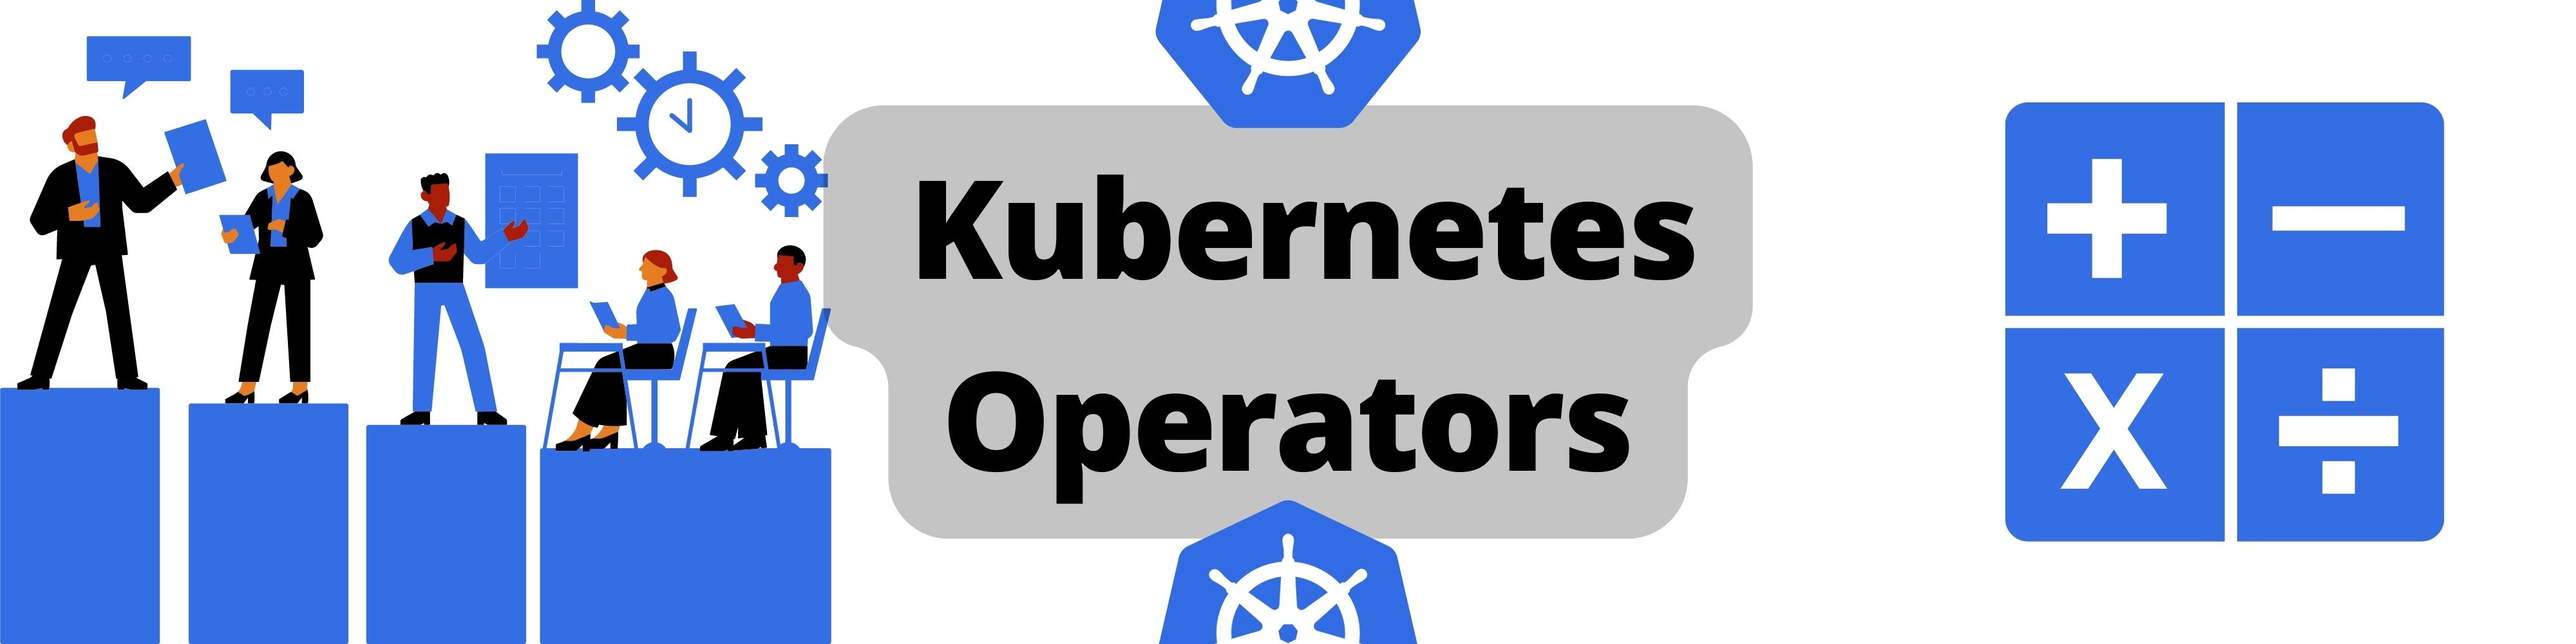
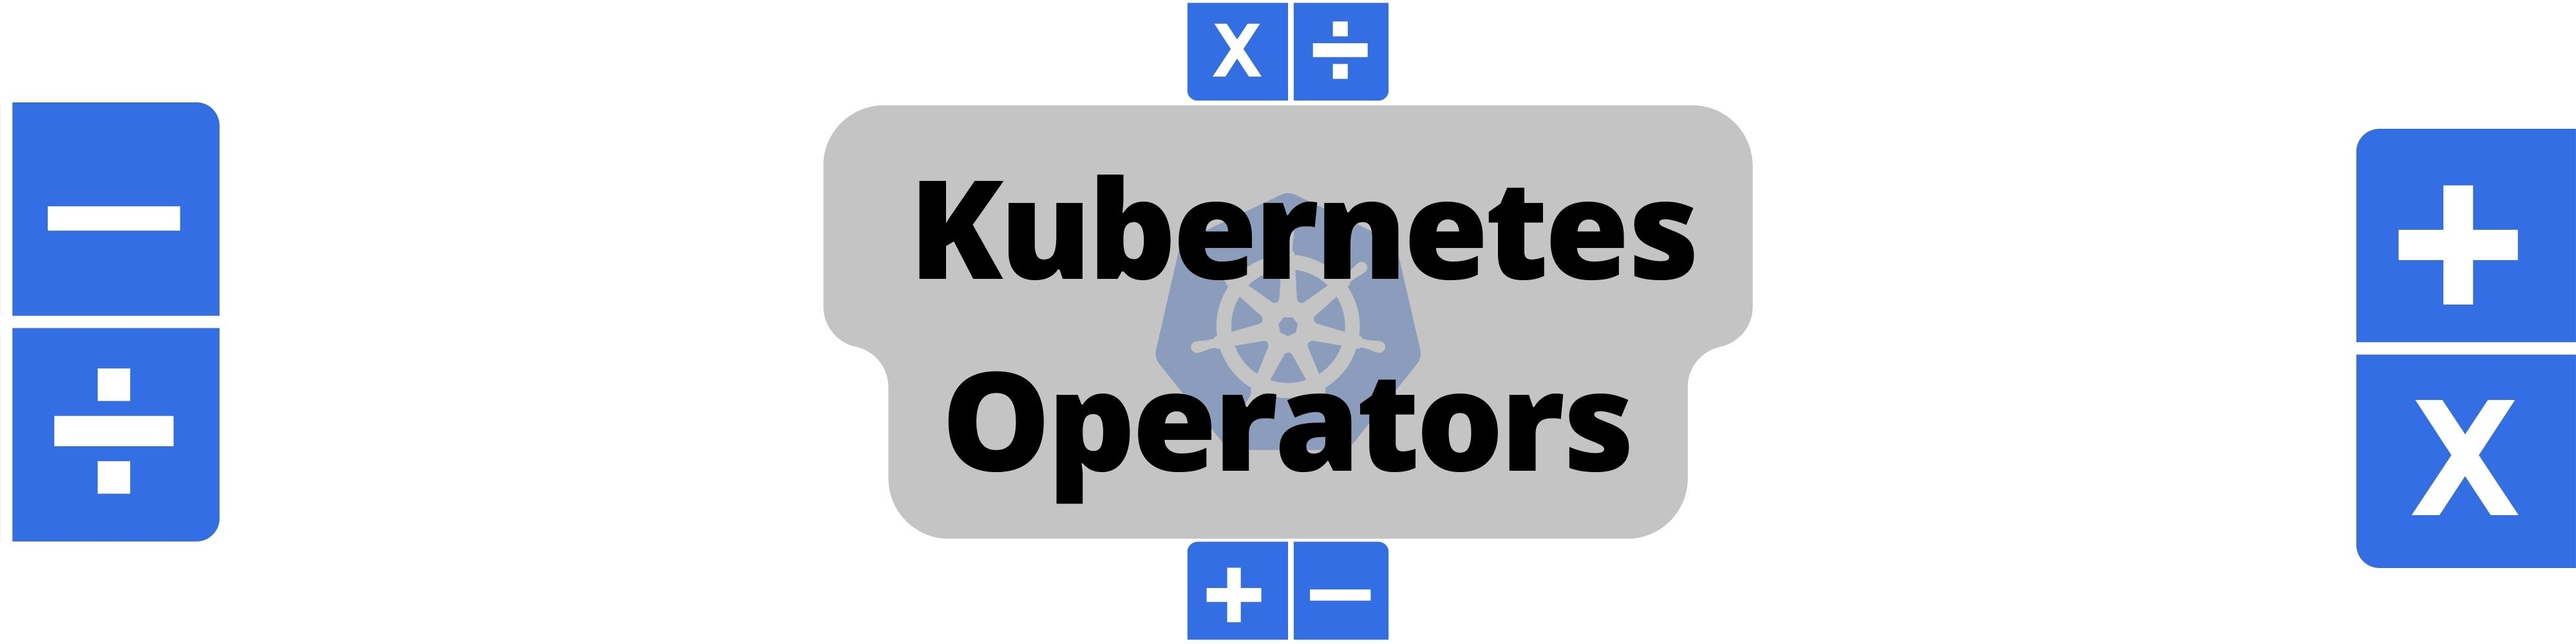
Updated images, code blocks & header

diff --git a/blog/_posts/2023-03-13-kubernetes-operators.md b/blog/_posts/2023-03-13-kubernetes-operators.md
@@ -42,7 +42,7 @@ Stateful applications like databases can be challenging to manage and scale sinc
 
 This hand holding includes additional steps that need to be taken such as configuring persistent storage, data migration, and setting up appropriate [ReplicaSsets](https://earthly.dev/blog/use-replicasets-in-k8s/). During the running phase, managing the state of the application, scaling and performing updates, and ensuring data consistency across replicas can be complex tasks. Finally, when destroying stateful applications, special care must be taken to ensure that data is properly backed up and migrated before the application is terminated. Kubernetes does not automatically handle all these tasks for stateful applications. Consider the example of creating three replicas of the MongoDB database:
 
-![MongDB Pod and Three replicas]({{site.images}}{{page.slug}}/a/kxaLtW6)
+![MongDB Pod and Three replicas]({{site.images}}{{page.slug}}/kxaLtW6.jpeg)\
 
 Each replica has its own state and identity, making it difficult to keep them in sync. When performing updates or destroying the database, the order in which these actions are performed is critical to maintaining data consistency. Furthermore, constant synchronization between replicas must be maintained. This is just one example, but the management processes for various databases such as MySQL, Postgres, Cassandra, and Redis will also differ. This makes it difficult to have a single solution that can automate the entire process for all systems and applications.
 
@@ -84,7 +84,7 @@ In summary, *Kubernetes operators provide a powerful and efficient way to manage
 
 ### Understanding the Kubernetes Operator Architecture
 
-![Kubernetes Operator Architecture]({{site.images}}{{page.slug}}/a/MQOVoON)
+![Kubernetes Operator Architecture]({{site.images}}{{page.slug}}/MQOVoON.jpeg)\
 
 A Kubernetes operator at its core has the same control loop mechanism as Kubernetes that monitors changes to the application state. They typically consist of the following components:
 
@@ -126,10 +126,11 @@ Local installation of [Git]
 
 As a first step, you must install the [MongoDB](/blog/mongodb-docker) operator's Custom Resource Definition (CRD). This is required because the CRD will be used to define the custom resource that the operator will use to manage the MongoDB cluster. To do so, run the following commands:
 
-~~~
+~~~{.bash caption=">_"}
 # clone the repository containing the MongoDB operator and Crds manifest. 
 
-git clone https://github.com/segunjkf/mongodb-operator.git && cd mongodb-operator
+git clone https://github.com/segunjkf/mongodb-operator.git && \
+cd mongodb-operator
 
 # Apply the MongoDB CRD configuration 
 
@@ -140,31 +141,31 @@ kubectl apply -f mongodb-crd.yaml
 
 The next step is to create a namespace for the operator and its resources, which will create an isolated place in your Kubernetes cluster for the MongoDB operator resources to be deployed. Run the following commands to accomplish this.
 
-~~~
+~~~{.bash caption=">_"}
 kubectl create namespace mongodb-operator
 ~~~
 
 After creating the namespace, the next step is to create the role and role-binding needed to grant the required permission to the MongoDB operator. To do so, run the following commands:
 
-~~~
+~~~{.bash caption=">_"}
 kubectl apply -f mongo/ -n mongodb-operator
 ~~~
 
-![Applied role and role-binding]({{site.images}}{{page.slug}}/a/7fETMrw)
+![Applied role and role-binding]({{site.images}}{{page.slug}}/7fETMrw.jpeg)\
 
 You now have the required roles and permission for the operator to use, the next step is to deploy the MongoDB operator. To do run the following commands:
 
-~~~
+~~~{.bash caption=">_"}
 kubectl apply -f operator.yaml
 ~~~
 
 You now have the MongoDB operator in your cluster. You can confirm the operator pod by running the following command:
 
-~~~
+~~~{.bash caption=">_"}
 kubectl get pods -n mongodb-operator
 ~~~
 
-![MongoDB Operator running the namespace]({{site.images}}{{page.slug}}/a/fi6RC6X)
+![MongoDB Operator running the namespace]({{site.images}}{{page.slug}}/fi6RC6X.jpeg)\
 
 <div class="notice--big--primary">
 📑The GitHub repository you cloned was created specifically for this guide, and it has been modified so that you can quickly get started with the MongoDB operator. Please refer to the official MongoDB community operator [Github Repository](https://github.com/mongodb/mongodb-kubernetes-operator) for more information and the full source code.
@@ -174,10 +175,11 @@ kubectl get pods -n mongodb-operator
 
 With the MongoDB operator now running in your Kubernetes cluster, you will create a MongoDB custom resource (CR) that defines your desired MongoDB cluster state.
 
-~~~
+~~~{.bash caption=">_"}
 # Create a secret for the MongoDB cluster
 
-kubectl create secret generic admin-user-password -n mongodb-operator  --from-literal="password=admin123" 
+kubectl create secret generic admin-user-password -n mongodb-operator \
+ --from-literal="password=admin123" 
 
 # MongoDB Cluster YAML configuration
 
@@ -257,11 +259,13 @@ The `statefulSet` field is used to configure the Kubernetes StatefulSet that wil
 
 It may take a few seconds for your MongoDB cluster to be created. To make sure that the pod is running and passed all the health checks, run the following command:
 
-~~~
+~~~{.bash caption=">_"}
 kubectl get pods -n mongodb-operator
 ~~~
 
-![MongoDB pod running the mongodb-operator namespace]({{site.images}}{{page.slug}}/a/e5ARMIM)
+<div class="wide">
+![MongoDB pod running the mongodb-operator namespace]({{site.images}}{{page.slug}}/fi6RC6X.jpeg)\
+</div>
 
 The cluster is now up and running, under the hood, the MongoDB operator took care of creating and managing the necessary Kubernetes resources, such as pods, PVC, and services, to reach the desired state of the defined MongoDB cluster. The operator will also handle tasks such as scaling, updates, and ensuring data consistency across replicas.
 
@@ -271,38 +275,45 @@ Having set up MongoDB Cluster, you are now ready to start using it. You will tes
 
 Firstly, connect to the database. You are going to be using a mongosh shell to connect to the MongoDB cluster. To ensure access to the cluster locally, forward traffic to the mongoDB cluster. To do so, run the following commands
 
-~~~
+~~~{.bash caption=">_"}
 kubectl port-forward my-mongodb-0 27017 -n mongodb
 ~~~
 
 The next step is to connect to the database, but first, you must obtain the database password. Alternatively, open a new terminal and run the following commands:
 
-~~~
-kubectl get secret my-mongodb-admin-admin-user -n mongodb-operator -o json | jq -r '.data | with_entries(.value |= @base64d)'
+~~~{.bash caption=">_"}
+kubectl get secret my-mongodb-admin-admin-user -n \
+ mongodb-operator -o json | jq -r '.data | with_entries(.value |= @base64d)'
 
 ~~~
 
-![mongodb passwords]({{site.images}}{{page.slug}}/a/HXmV5zk)
+<div class="wide">
+![mongodb passwords]({{site.images}}{{page.slug}}/HXmV5zk.jpeg)\
+</div>
 
 Now run MongoSH to connect to the database:
 
-~~~
+~~~{.bash caption=">_"}
 Mongosh "mongodb://admin-user:admin123@127.0.0.1:27017/admin?directConnection=true&serverSelectionTimeoutMS=2000"
 ~~~
 
-![Mongosh Session]({{site.images}}{{page.slug}}/a/vjYMPsy)
+<div class="wide">
+![Mongosh Session]({{site.images}}{{page.slug}}/vjYMPsy.jpeg)\
+</div>
 
 You have now established a connection to the MongoDB cluster. Let's list the databases that are currently available:
 
-~~~
+~~~{.bash caption=">_"}
 show dbs
 ~~~
 
-![available database]({{site.images}}{{page.slug}}/a/5hwKWL9)
+<div class="wide">
+![available database]({{site.images}}{{page.slug}}/5hwKWL9.jpeg)\
+</div>
 
 You will now create a new user and grant read and write permissions. To do so run the following command:
 
-~~~
+~~~{.bash caption=">_"}
 db.createUser(
   {
     user: 'new-user',
@@ -312,39 +323,47 @@ db.createUser(
 );
 ~~~
 
-![Newly created MongoDB User]({{site.images}}{{page.slug}}/a/RqA6k72)
+<div class="wide">
+![Newly created MongoDB User]({{site.images}}{{page.slug}}/RqA6k72.jpeg)\
+</div>
 
 This command creates a new user in the MongoDB database with username "new-user" and password "new-user-password", and assigns the "readWrite" role to the user on the "store" database. This allows the "new user" to have read and write permissions on the store database.
 
 The next step is to confirm its access by authenticating it with its credentials against the current cluster. In order to do this, run the command below:
 
-~~~
+~~~{.bash caption=">_"}
 db.auth( 'new-user', 'new-user-password' )
 ~~~
 
-![authenticating new user credentials]({{site.images}}{{page.slug}}/a/Ge3QXle)
+<div class="wide">
+![authenticating new user credentials]({{site.images}}{{page.slug}}/Ge3QXle.jpeg)\
+</div>
 
 Following successful authentication, you will create a new database named 'store' for the new user. Run the following command to accomplish this.
 
-~~~
+~~~{.bash caption=">_"}
 use store
 ~~~
 
 Next, insert a record using the `insertOne` command:
 
-~~~
+~~~{.bash caption=">_"}
 db.employees.insertOne({name: "Anton"})
 ~~~
 
-![Inserting record]({{site.images}}{{page.slug}}/a/kM4zrS5)
+<div class="wide">
+![Inserting record]({{site.images}}{{page.slug}}/jZFuLkv.jpeg)\
+</div>
 
 This command created a new employee document with the field name "Anton" in the employees collection. Now you can try to retrieve all the records in the collection. To do so run the following command:
 
-~~~
+~~~{.bash caption=">_"}
 db.employees.find()
 ~~~
 
-![Retrieved from the database]( {{site.images}}{{page.slug}}/a/kBW75PZ)
+<div class="wide">
+![Retrieved from the database]( {{site.images}}{{page.slug}}/kBW75PZ.jpeg)\
+</div>
 
 To sum up, you deployed a MongoDB operator to your Kubernetes cluster, and declared the desired cluster state with an operator custom resource YAML, and the operator took care of meeting the desired state. You also connected to the database and performed some queries to test the setup.
 
@@ -383,9 +402,3 @@ Kubernetes operators, in particular, automate the deployment and management of c
 Next, you can explore the use of Kubernetes operators in your own projects and organizations, or you can [learn more](https://operatorhub.io/) about the various types of operators available and how they can be used to manage specific types of applications.
 
 {% include cta/cta1.html %}
-
-## Outside Article Checklist
-
-- [ ] Optional: Find ways to break up content with quotes or images
-- [ ] Verify look of article locally
-  - Would any images look better `wide` or without the `figcaption`?
